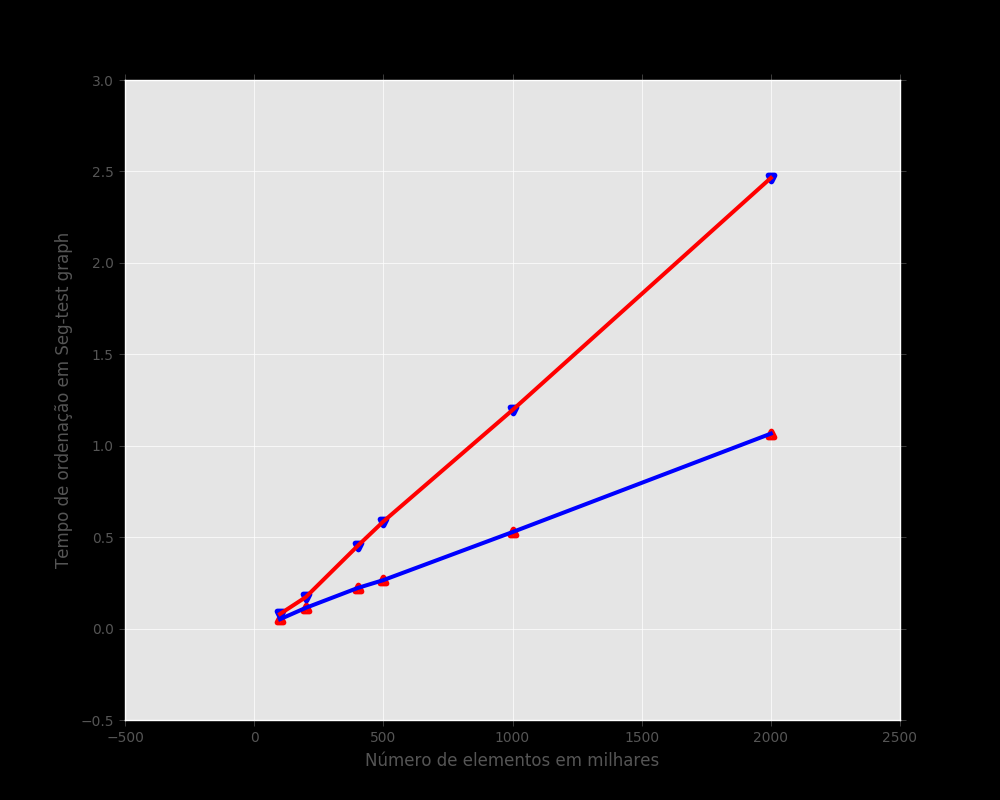
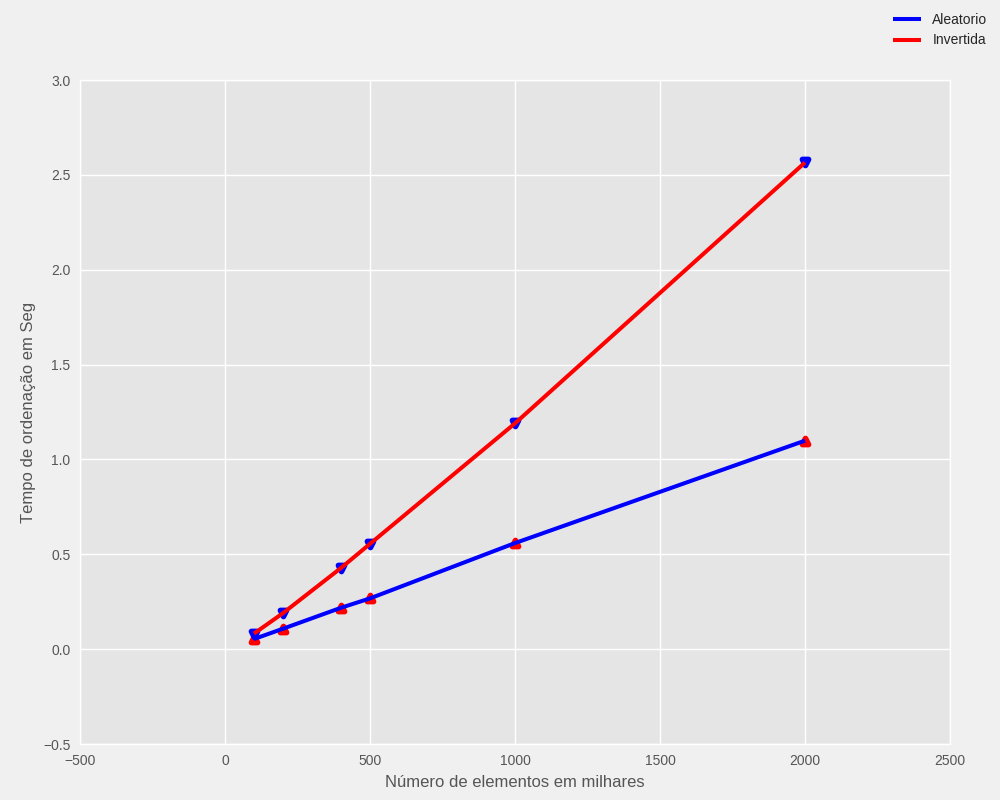
Counting Sort by Cristiano Coutinho

diff --git a/07 - Counting Sort/countingSort.py b/07 - Counting Sort/countingSort.py
@@ -47,7 +47,7 @@ def drawGraph(x,y,yInv,XAxis = "Lista de Numeros", YAxis = "Tempo de ordenação
     ax.plot(x,y,color = 'blue', markerfacecoloralt ='green', label = "Aleatorio")
     plt.scatter(x,yInv,marker= 'v',facecolor='blue',edgecolors= 'blue', linewidths=4)  
     ax.plot(x,yInv, color = 'red', label = "Invertida")
-    ax.legend(bbox_to_anchor=(1, 1),bbox_transform=plt.gcf().transFigure, loc='center left')
+    ax.legend(bbox_to_anchor=(1, 1),bbox_transform=plt.gcf().transFigure)
     plt.ylabel(YAxis)
     plt.xlabel(XAxis)
     fig.savefig(YAxis)
@@ -66,7 +66,7 @@ def generateList(tam):
   shuffle(newList)
   return newList
 
-#sys.setrecursionlimit(10**6)  
+ 
 
 listValueGraph = [100 ,200 , 400, 500, 1000, 2000]
 #~~~~~~~~~~ Tests ~~~~~~~~~~~#
@@ -121,4 +121,4 @@ drawGraph(listValueGraph,
           timeSortInvertedCase,
           timeSortRandomCase, 
           XAxis="Número de elementos em milhares", 
-          YAxis="Tempo de ordenação em Seg-test graph")
+          YAxis="Tempo de ordenação em Seg")
